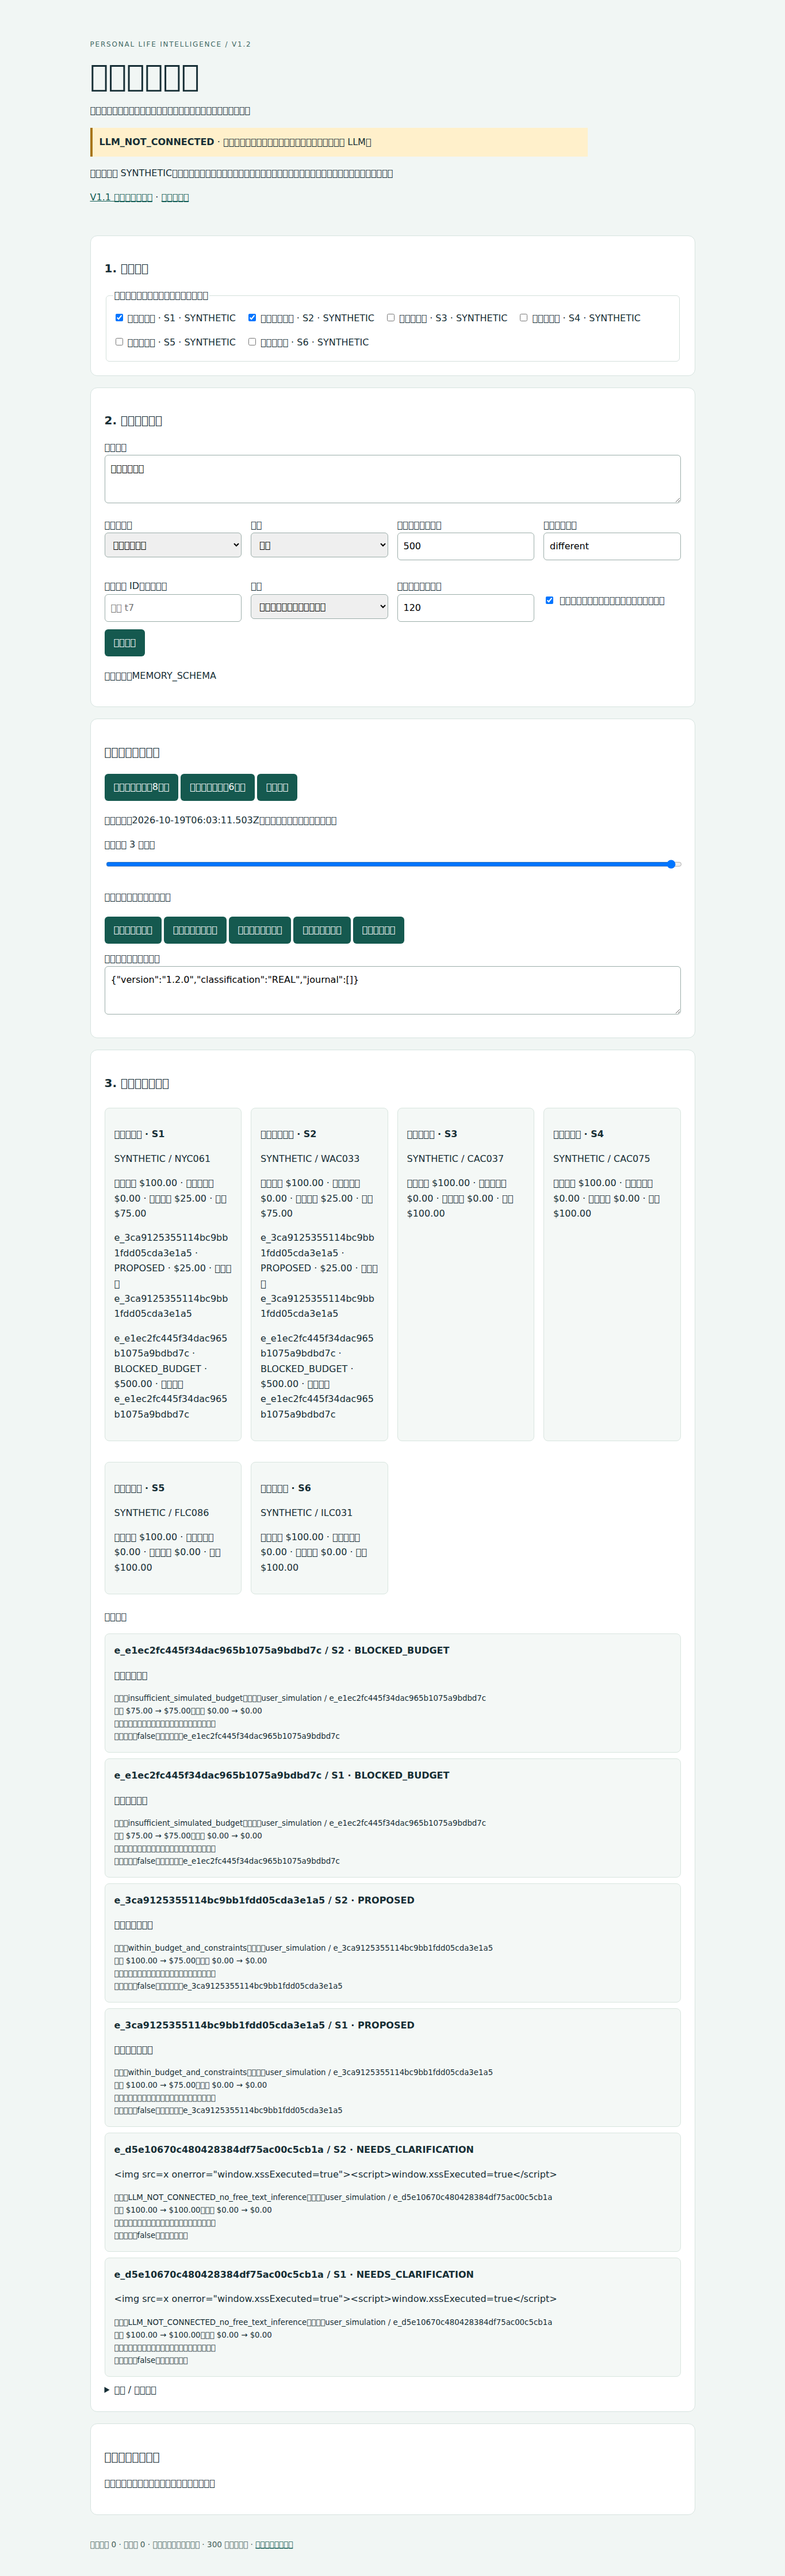
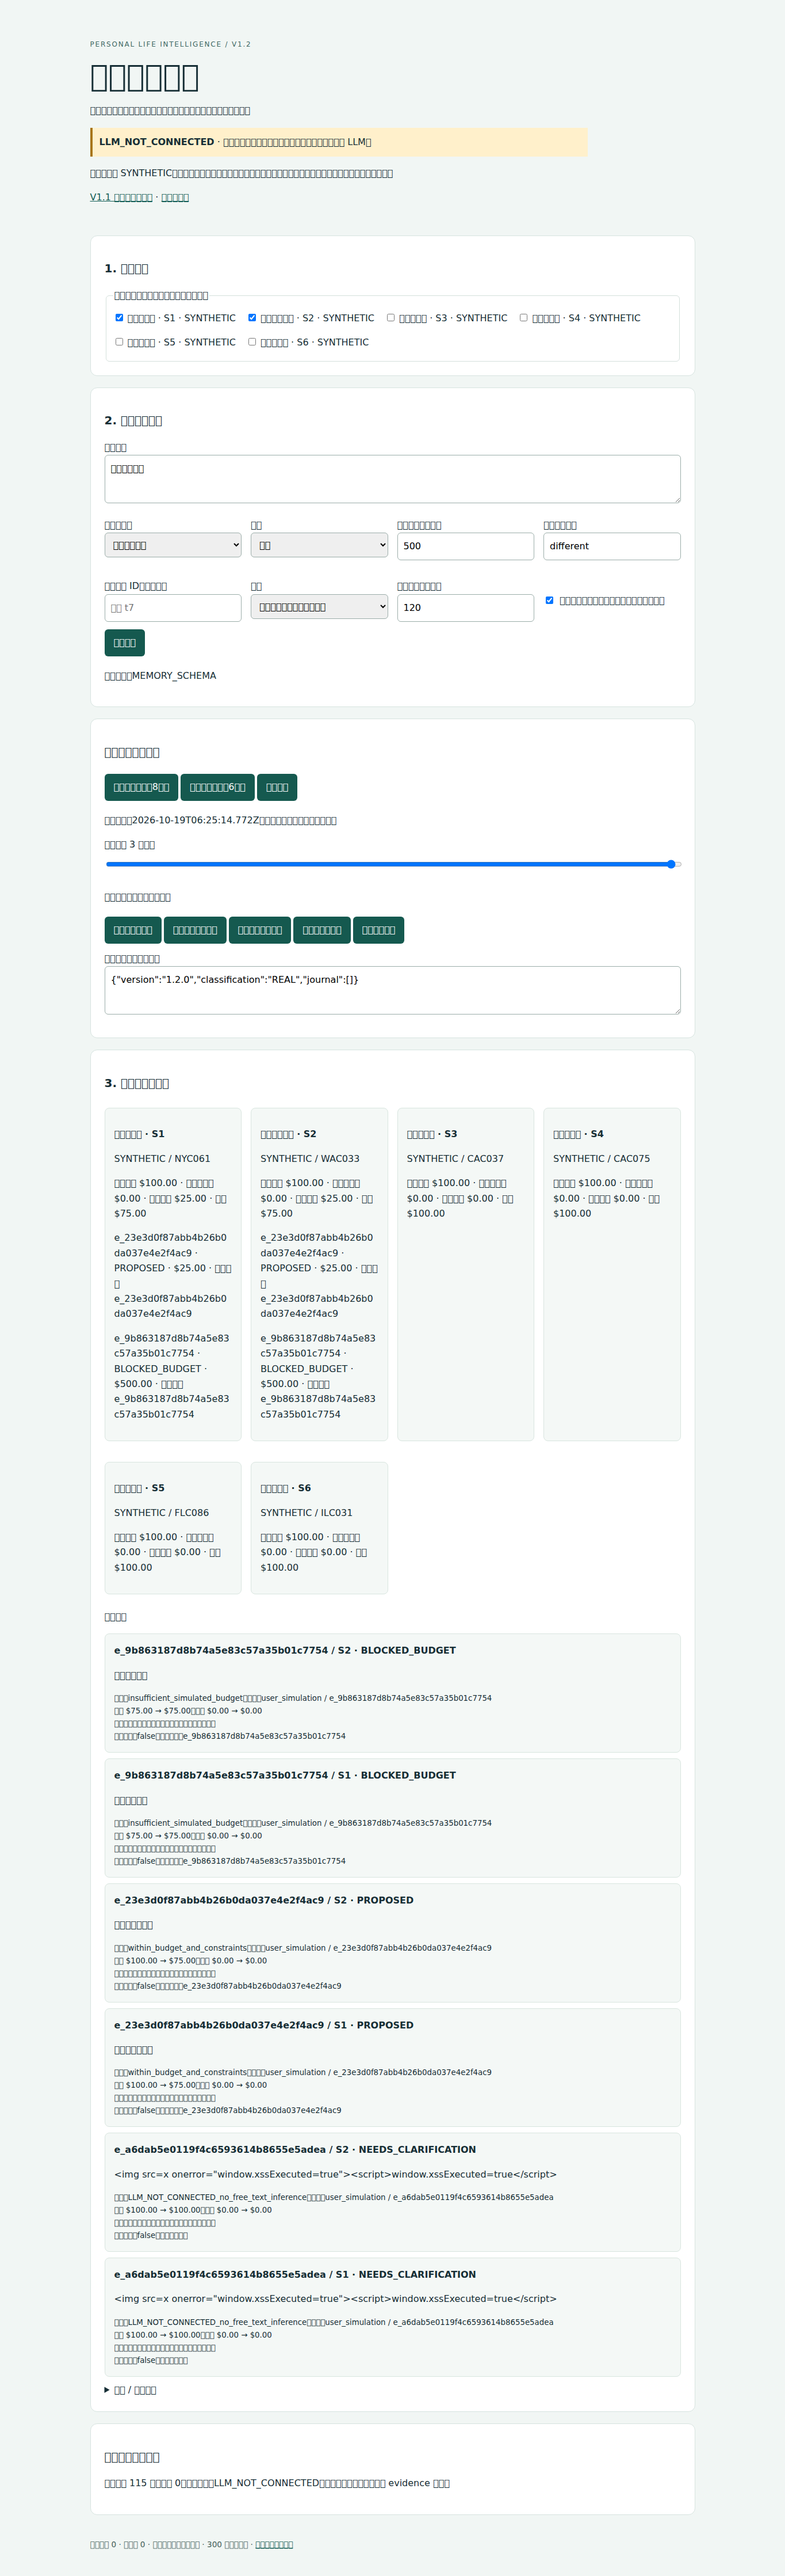
PLI V1.2: publish verified mobile layout fix and updated cloud evidence

diff --git a/pli-v12/style.css b/pli-v12/style.css
@@ -1,1 +1,2 @@
 :root{color-scheme:light;font:16px/1.65 system-ui,sans-serif;color:#162e35;background:#f1f6f4}*{box-sizing:border-box}body{margin:0}main{max-width:1100px;margin:auto;padding:24px}header{padding:32px 0}h1{font-size:clamp(2rem,5vw,3.3rem);line-height:1.2;margin:12px 0}h2{font-size:1.25rem}h3{font-size:1rem}p{max-width:85ch}.eyebrow{font-size:.75rem;letter-spacing:.15em;color:#3f6864}section{background:white;border:1px solid #d6e3df;border-radius:12px;padding:24px;margin:20px 0}.warning{background:#fff0cb;border-left:4px solid #a77516;padding:12px}.grid,.cards{display:grid;grid-template-columns:repeat(auto-fit,minmax(220px,1fr));gap:16px}label{display:block;margin:8px 0}input,select,textarea,button{font:inherit;max-width:100%}input:not([type=checkbox]),select,textarea{width:100%;padding:10px;border:1px solid #9bada9;border-radius:6px}textarea{min-height:84px;resize:vertical}input[type=range]{width:100%}button{background:#15594f;color:white;border:0;border-radius:6px;padding:10px 16px;cursor:pointer;margin:5px 4px 5px 0}button:focus-visible,a:focus-visible{outline:3px solid #ab7610}fieldset{border:1px solid #d4e0db;border-radius:6px}#profiles label{display:inline-block;margin-right:18px}.card,.decision{padding:16px;background:#f4f8f6;border:1px solid #d8e5df;border-radius:8px;margin:10px 0;overflow-wrap:anywhere}pre{white-space:pre-wrap;overflow-wrap:anywhere;font:13px/1.5 monospace}.decision small{display:block}a{color:#125d55}footer{font-size:.85rem;color:#46615c;padding:20px 0}.check{display:flex;align-items:center;gap:8px}@media(max-width:500px){main{padding:14px}section{padding:16px}.grid,.cards{grid-template-columns:1fr}header{padding:16px 0}button{width:100%}}
+main,section,header,fieldset,.grid>*,.cards>*{min-width:0}main{overflow-wrap:anywhere}#evidence{overflow-wrap:anywhere}
